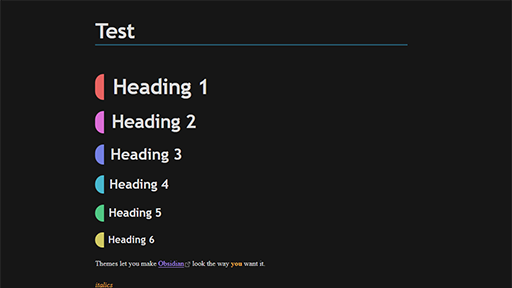
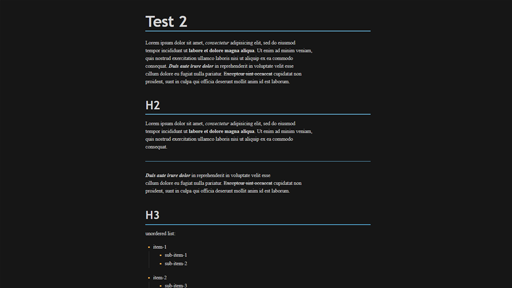
Cleaned up formatting

diff --git a/theme.css b/theme.css
@@ -37,60 +37,63 @@ settings:
     title: H1 accent
     type: variable-color
     format: hex
-    default: '#e85d5d'
+    default: '#82d0ef'
   -
     id: h2-accent-color
     title: H2 accent
     type: variable-color
     format: hex
-    default: '#d96bd8'
+    default: '#5bc2eb'
   -
     id: h3-accent-color
     title: H3 accent
     type: variable-color
     format: hex
-    default: '#6f83e8'
+    default: '#3eb7e7'
   -
     id: h4-accent-color
     title: H4 accent
     type: variable-color
     format: hex
-    default: '#45b9d0'
+    default: '#359cc4'
   -
     id: h5-accent-color
     title: H5 accent
     type: variable-color
     format: hex
-    default: '#55c982'
+    default: '#2b80a2'
   -
     id: h6-accent-color
     title: H6 accent
     type: variable-color
     format: hex
-    default: '#d2c85a'
+    default: '#22657f'
 */
 
 .theme-dark {
   --background-primary: #161616;
   --background-secondary: #111111;
+  --text-normal: #d4d4d4;
 
   --primary-accent-color: #3eb7e7;
-  --primary-line-color: #22586d;
+  --primary-line-color: var(--h2-accent-color);
   --secondary-accent-color: #ffd000;
   --tertiary-accent-color: #ffab3e;
 
-  --h1-accent-color: #e85d5d;
-  --h2-accent-color: #d96bd8;
-  --h3-accent-color: #6f83e8;
-  --h4-accent-color: #45b9d0;
-  --h5-accent-color: #55c982;
-  --h6-accent-color: #d2c85a;
+  --h1-accent-color: #82d0ef;
+  --h2-accent-color: #5bc2eb;
+  --h3-accent-color: #3eb7e7;
+  --h4-accent-color: #359cc4;
+  --h5-accent-color: #2b80a2;
+  --h6-accent-color: #22657f;
 
   --list-marker-color: var(--tertiary-accent-color);
   --checkbox-border-color: var(--tertiary-accent-color);
 
-  --h1-size: 3em;
-  --h2-size: 2.6em;
+  --text-highlight-fg: #161616;
+
+  --h1-size: 2.5em;
+  --h2-size: 2.25em;
   --h3-size: 2.2em;
   --h4-size: 1.8em;
   --h5-size: 1.6em;
@@ -102,22 +105,24 @@ settings:
   --background-secondary: #e1f3fc;
 
   --primary-accent-color: #3eb7e7;
-  --primary-line-color: #8fcfe6;
+  --primary-line-color: var(--h2-accent-color);
   --secondary-accent-color: #ff950b;
   --tertiary-accent-color: #ff950b;
 
-  --h1-accent-color: #b83232;
-  --h2-accent-color: #a2359f;
-  --h3-accent-color: #3f54b5;
-  --h4-accent-color: #08798a;
-  --h5-accent-color: #16844a;
-  --h6-accent-color: #8a7a00;
+  --h1-accent-color: #22657f;
+  --h2-accent-color: #287594;
+  --h3-accent-color: #2d86a9;
+  --h4-accent-color: #3396bd;
+  --h5-accent-color: #38a7d2;
+  --h6-accent-color: #3eb7e7;
 
   --list-marker-color: var(--tertiary-accent-color);
   --checkbox-border-color: var(--tertiary-accent-color);
 
-  --h1-size: 3em;
-  --h2-size: 2.6em;
+  --text-highlight-fg: #161616;
+
+  --h1-size: 2.5em;
+  --h2-size: 2.25em;
   --h3-size: 2.2em;
   --h4-size: 1.8em;
   --h5-size: 1.6em;
@@ -162,32 +167,27 @@ body {
 	stroke: currentColor;
 }
 
-.HyperMD-header .cm-fold-indicator {
-	border-left: 20px var(--primary-line-color) solid;
-	border-radius: 20px 0 0 20px;
-}
-
-.HyperMD-header-1 .cm-fold-indicator, h1 {
+.HyperMD-header-1, h1 {
 	border-color: var(--h1-accent-color) !important;
 }
 
-.HyperMD-header-2 .cm-fold-indicator, h2 {
+.HyperMD-header-2, h2 {
 	border-color: var(--h2-accent-color);
 }
 
-.HyperMD-header-3 .cm-fold-indicator, h3 {
+.HyperMD-header-3, h3 {
 	border-color: var(--h3-accent-color);
 }
 
-.HyperMD-header-4 .cm-fold-indicator, h4 {
+.HyperMD-header-4, h4 {
 	border-color: var(--h4-accent-color);
 }
 
-.HyperMD-header-5 .cm-fold-indicator, h5 {
+.HyperMD-header-5, h5 {
 	border-color: var(--h5-accent-color);
 }
 
-.HyperMD-header-6 .cm-fold-indicator, h6 {
+.HyperMD-header-6, h6 {
 	border-color: var(--h6-accent-color);
 }
 
@@ -196,22 +196,19 @@ body {
 }
 
 
-.cm-header, h1, h2, h3, h4, h5, h6 {
-	padding-left: .4em;
+.HyperMD-header, h1, h2, h3, h4, h5, h6 {
+	border-bottom-width: .08em;
+	border-bottom-style: solid;
+	padding-bottom: .15em;
 }
 
 .cm-strong, strong {
 	font-weight: bold;
-	color: var(--tertiary-accent-color);
-}
-
-.cm-em, em {
-	color: var(--tertiary-accent-color);
 }
 
 .cm-highlight, mark {
 	background-color: var(--secondary-accent-color);
-	color: var(--background-primary) !important;
+	color: var(--text-highlight-fg) !important;
 }
 
 .cm-inline-code,
@@ -331,8 +328,8 @@ svg * {
 
 @media (max-width: 600px) {
 	body {
-		--h1-size: 2.2em;
-		--h2-size: 1.9em;
+		--h1-size: 1.85em;
+		--h2-size: 1.7em;
 		--h3-size: 1.65em;
 		--h4-size: 1.45em;
 		--h5-size: 1.25em;
@@ -341,9 +338,5 @@ svg * {
 
 	.inline-title {
 		font-size: 2.2em !important;
-	}
-
-	.HyperMD-header .cm-fold-indicator {
-		border-left-width: 12px;
 	}
 }
